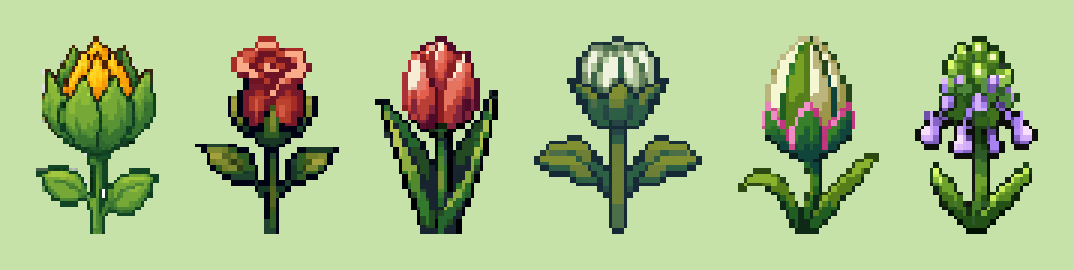
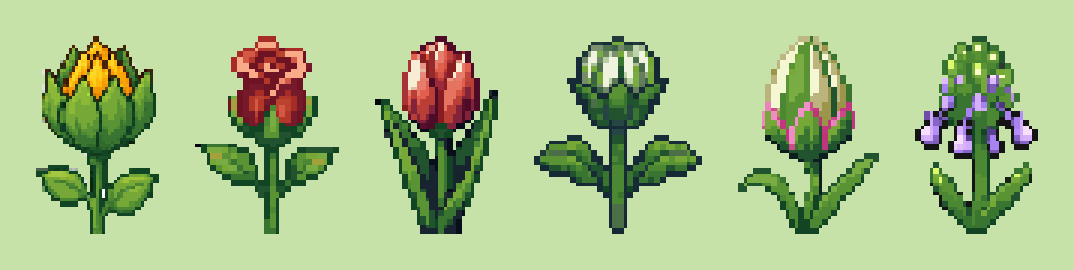
Repaint the flowers in the sunflower's own colours
Right resolution, wrong palette: measured against the sunflower, every
generated flower's foliage was a different plant. Sunflower leaves sit at
saturation 0.39-0.45 and luminance 0.38-0.47 — soft sage. The generated
ones came back at 0.77-1.00 and 0.13-0.26, vivid and nearly black.

Petals are meant to differ; that is the feature. Stems, leaves and soil
are not — every species grows the same greenery out of the same ground,
and letting each invent its own green is what made six gardens look like
six art styles. So foliage and soil are remapped onto ramps lifted from
the sunflower's own sprites, by luminance rank rather than nearest
colour, which keeps the shading order the generator drew instead of
collapsing it.

Black outlines go too. The sunflower outlines in a dark version of what
it is outlining and never in black, so black pixels are reassigned by
what they surround — dark green around a leaf, dark brown around dirt,
the flower's own darkest tint around a petal.

Also redraws the daisy, which was leaning: head and stem both slanted
while every other species stood straight.

diff --git a/scripts/flowers/restyle.py b/scripts/flowers/restyle.py
@@ -1,0 +1,184 @@
+#!/usr/bin/env python3
+"""Repaint a generated flower's leaves and soil in the sunflower's own colours.
+
+Getting the *resolution* right made the new flowers read as pixel art; it did
+not make them read as the same garden. Measured against the sunflower, their
+foliage was a different plant entirely:
+
+    sunflower leaves   sat 0.39-0.45   luminance 0.38-0.47   soft sage
+    generated leaves   sat 0.77-1.00   luminance 0.13-0.26   vivid, near-black
+
+A flower's petals are meant to differ — that is the whole feature. Its stem and
+leaves are not: every species in the field grows the same greenery out of the
+same ground, and letting each one invent its own green is what made six gardens
+look like six art styles. So foliage and soil are remapped onto ramps taken from
+the sunflower's own sprites, and petals are left alone.
+
+The mapping is by **luminance rank, not nearest colour**. Nearest-RGB snapping is
+the trap `docs/pixellab-notes.md` warns about — it collapses colours that happen
+to sit close together and destroys the shading. Ranking instead preserves the
+order the artist drew: the darkest green in the source becomes the darkest green
+in the ramp, the lightest becomes the lightest, and the steps between keep their
+relative spacing.
+"""
+
+from __future__ import annotations
+
+import colorsys
+
+from PIL import Image
+
+# Taken from public/sprites/flowers/sunflower-{bloom,bud,sprout}.png — the
+# greens and browns those three sprites actually use, ordered dark to light.
+FOLIAGE_RAMP = ["#124523", "#21532f", "#397530", "#4c8733", "#599333", "#75a836", "#79ac42"]
+SOIL_RAMP = ["#33280e", "#462218", "#6b3727", "#7d422d", "#83452e"]
+
+# Hue windows, in degrees. Soil is a dark, unsaturated orange-brown — the
+# saturation and luminance caps keep a red tulip petal or a golden daisy centre
+# out of it.
+FOLIAGE_HUES = (60, 175)
+SOIL_HUES = (10, 50)
+SOIL_MAX_SAT = 0.75
+SOIL_MAX_LUM = 0.6
+
+# Hue alone is not enough to call something a leaf, and trusting it wasn't a
+# theoretical risk: a daisy's grey petal shadows carry a nominal hue somewhere in
+# the greens, so the first version repainted them leaf-green and the flower came
+# back with grass growing through its petals. A leaf is never near-grey and never
+# near-white, so both floors are needed.
+FOLIAGE_MIN_SAT = 0.25
+FOLIAGE_MAX_LUM = 0.7
+# Soil, likewise, is never a near-grey.
+SOIL_MIN_SAT = 0.15
+# At or below this luminance a colour is treated as an outline rather than as
+# anything the flower is made of.
+NEAR_BLACK_LUM = 0.06
+
+
+def _rgb(hex_colour: str) -> tuple[int, int, int]:
+    h = hex_colour.lstrip("#")
+    return tuple(int(h[i : i + 2], 16) for i in (0, 2, 4))
+
+
+def _hls(colour: tuple[int, int, int]) -> tuple[float, float, float]:
+    return colorsys.rgb_to_hls(*[v / 255 for v in colour])
+
+
+def classify(colour: tuple[int, int, int]) -> str:
+    hue, lum, sat = _hls(colour)
+    degrees = hue * 360
+    if (
+        FOLIAGE_HUES[0] <= degrees <= FOLIAGE_HUES[1]
+        and sat >= FOLIAGE_MIN_SAT
+        and lum <= FOLIAGE_MAX_LUM
+    ):
+        return "foliage"
+    if (
+        SOIL_HUES[0] <= degrees < SOIL_HUES[1]
+        and SOIL_MIN_SAT <= sat <= SOIL_MAX_SAT
+        and lum <= SOIL_MAX_LUM
+    ):
+        return "soil"
+    return "petal"
+
+
+def _remap(colours: list[tuple[int, int, int]], ramp: list[str]) -> dict:
+    """Rank `colours` by luminance and spread them across `ramp`."""
+    if not colours:
+        return {}
+    ordered = sorted(colours, key=lambda c: _hls(c)[1])
+    target = [_rgb(c) for c in ramp]
+    if len(ordered) == 1:
+        return {ordered[0]: target[len(target) // 2]}
+    return {
+        colour: target[round(i * (len(target) - 1) / (len(ordered) - 1))]
+        for i, colour in enumerate(ordered)
+    }
+
+
+def restyle(im: Image.Image, stage: str | None = None) -> tuple[Image.Image, int]:
+    """Repaint foliage, soil and black outlines; return the image and pixels changed."""
+    im = im.convert("RGBA")
+    px = im.load()
+    w, h = im.size
+    present = {px[x, y][:3] for y in range(h) for x in range(w) if px[x, y][3] > 0}
+
+    # A seedling is leaves, a stem and dirt — there is nothing else in the
+    # frame. So on a sprout anything that isn't foliage is soil, whatever hue
+    # the generator reached for: one came back with a navy mound, another with a
+    # brown far too saturated to pass the general test, and both would otherwise
+    # have shipped as drawn.
+    kinds = {}
+    for colour in present:
+        kind = classify(colour)
+        if stage == "sprout" and kind == "petal" and _hls(colour)[1] > NEAR_BLACK_LUM:
+            # Hue alone decides on a sprout. The saturation floor that protects a
+            # daisy's grey petals has no petals to protect here, and applying it
+            # anyway sent every pale leaf highlight to the soil ramp — the
+            # seedlings shipped with dirt speckled across their leaves.
+            hue = _hls(colour)[0] * 360
+            kind = "foliage" if FOLIAGE_HUES[0] <= hue <= FOLIAGE_HUES[1] else "soil"
+        kinds[colour] = kind
+
+    groups = {"foliage": [], "soil": [], "petal": []}
+    for colour, kind in kinds.items():
+        groups[kind].append(colour)
+
+    mapping = {**_remap(groups["foliage"], FOLIAGE_RAMP), **_remap(groups["soil"], SOIL_RAMP)}
+
+    # The sunflower outlines in a dark version of whatever it is outlining and
+    # never in black — the same rule the strawberry broke (see pixellab-notes).
+    # Pixen reaches for pure black freely, so those pixels are reassigned by what
+    # they surround: black around a leaf becomes the darkest green, black around
+    # dirt the darkest brown, black around a petal the darkest tint the flower
+    # already owns. Neighbours decide, because one black serves all three jobs.
+    blacks = [c for c in present if _hls(c)[1] <= NEAR_BLACK_LUM]
+    dark_petal = min(
+        (c for c in groups["petal"] if _hls(c)[1] > NEAR_BLACK_LUM),
+        key=lambda c: _hls(c)[1],
+        default=None,
+    )
+    changed = 0
+    if blacks:
+        black_set = set(blacks)
+        # Neighbours are read from an untouched copy. Reading from the image
+        # being written would let a pixel this pass has already repainted vote on
+        # the next one, which is both order-dependent and a lookup into `kinds`
+        # for a colour that was never in the source.
+        source = im.copy().load()
+        for y in range(h):
+            for x in range(w):
+                if px[x, y][3] == 0 or source[x, y][:3] not in black_set:
+                    continue
+                tally = {"foliage": 0, "soil": 0, "petal": 0}
+                for dy in (-1, 0, 1):
+                    for dx in (-1, 0, 1):
+                        nx, ny = x + dx, y + dy
+                        if not (0 <= nx < w and 0 <= ny < h) or source[nx, ny][3] == 0:
+                            continue
+                        neighbour = source[nx, ny][:3]
+                        if neighbour in black_set:
+                            continue
+                        tally[kinds[neighbour]] += 1
+                if not any(tally.values()):
+                    continue
+                winner = max(tally, key=tally.get)
+                target = (
+                    _rgb(FOLIAGE_RAMP[0]) if winner == "foliage"
+                    else _rgb(SOIL_RAMP[0]) if winner == "soil"
+                    else dark_petal
+                )
+                if target and target != px[x, y][:3]:
+                    px[x, y] = (*target, px[x, y][3])
+                    changed += 1
+
+    for y in range(h):
+        for x in range(w):
+            r, g, b, a = px[x, y]
+            if a == 0:
+                continue
+            new = mapping.get((r, g, b))
+            if new and new != (r, g, b):
+                px[x, y] = (*new, a)
+                changed += 1
+    return im, changed

diff --git a/scripts/flowers/finish.py b/scripts/flowers/finish.py
@@ -34,6 +34,7 @@ from PIL import Image
 
 sys.path.insert(0, str(Path(__file__).resolve().parents[1]))
 from pig.pixels import harden_alpha, islands, opaque_mask  # noqa: E402
+from flowers.restyle import restyle  # noqa: E402
 
 ROOT = Path(__file__).resolve().parents[2]
 ASSETS = ROOT / "assets/pixellab/flowers"
@@ -176,12 +177,14 @@ def strip_ground_line(im: Image.Image) -> tuple[Image.Image, int]:
     return im, bottom - top + 1
 
 
-def finish(src: Path, dest: Path) -> dict:
+def finish(src: Path, dest: Path, stage: str | None = None) -> dict:
     im = Image.open(src).convert("RGBA")
     im, cleared = key_background(im)
     im, softened = harden_alpha(im)
     im, strays = drop_specks(im)
     im, peeled = strip_ground_line(im)
+    # Last, so it repaints only pixels that survive to ship.
+    im, repainted = restyle(im, stage)
     box = im.getbbox()
     im = im.crop(box)
     dest.parent.mkdir(parents=True, exist_ok=True)
@@ -191,6 +194,7 @@ def finish(src: Path, dest: Path) -> dict:
         "softened": softened,
         "strays": strays,
         "peeled": peeled,
+        "repainted": repainted,
         "size": list(im.size),
     }
 
@@ -237,11 +241,12 @@ def main() -> None:
         for name, stages in data["flowers"].items():
             for stage, job in stages.items():
                 raw = download(job["job"], RAW / f"{name}-{stage}.png")
-                report = finish(raw, SPRITES / f"{name}-{stage}.png")
+                report = finish(raw, SPRITES / f"{name}-{stage}.png", stage)
                 print(f"{name}-{stage}: {report['size'][0]}x{report['size'][1]}px "
                       f"({report['cleared']} backdrop px keyed, "
                       f"{report['softened']} soft px hardened, {report['strays']} strays dropped, "
-                      f"{report['peeled']} ground rows peeled)")
+                      f"{report['peeled']} ground rows peeled, "
+                      f"{report['repainted']} px repainted to the sunflower's greens)")
 
     for stage in STAGES:
         out = PREVIEWS / f"flowers-{stage}.png"
